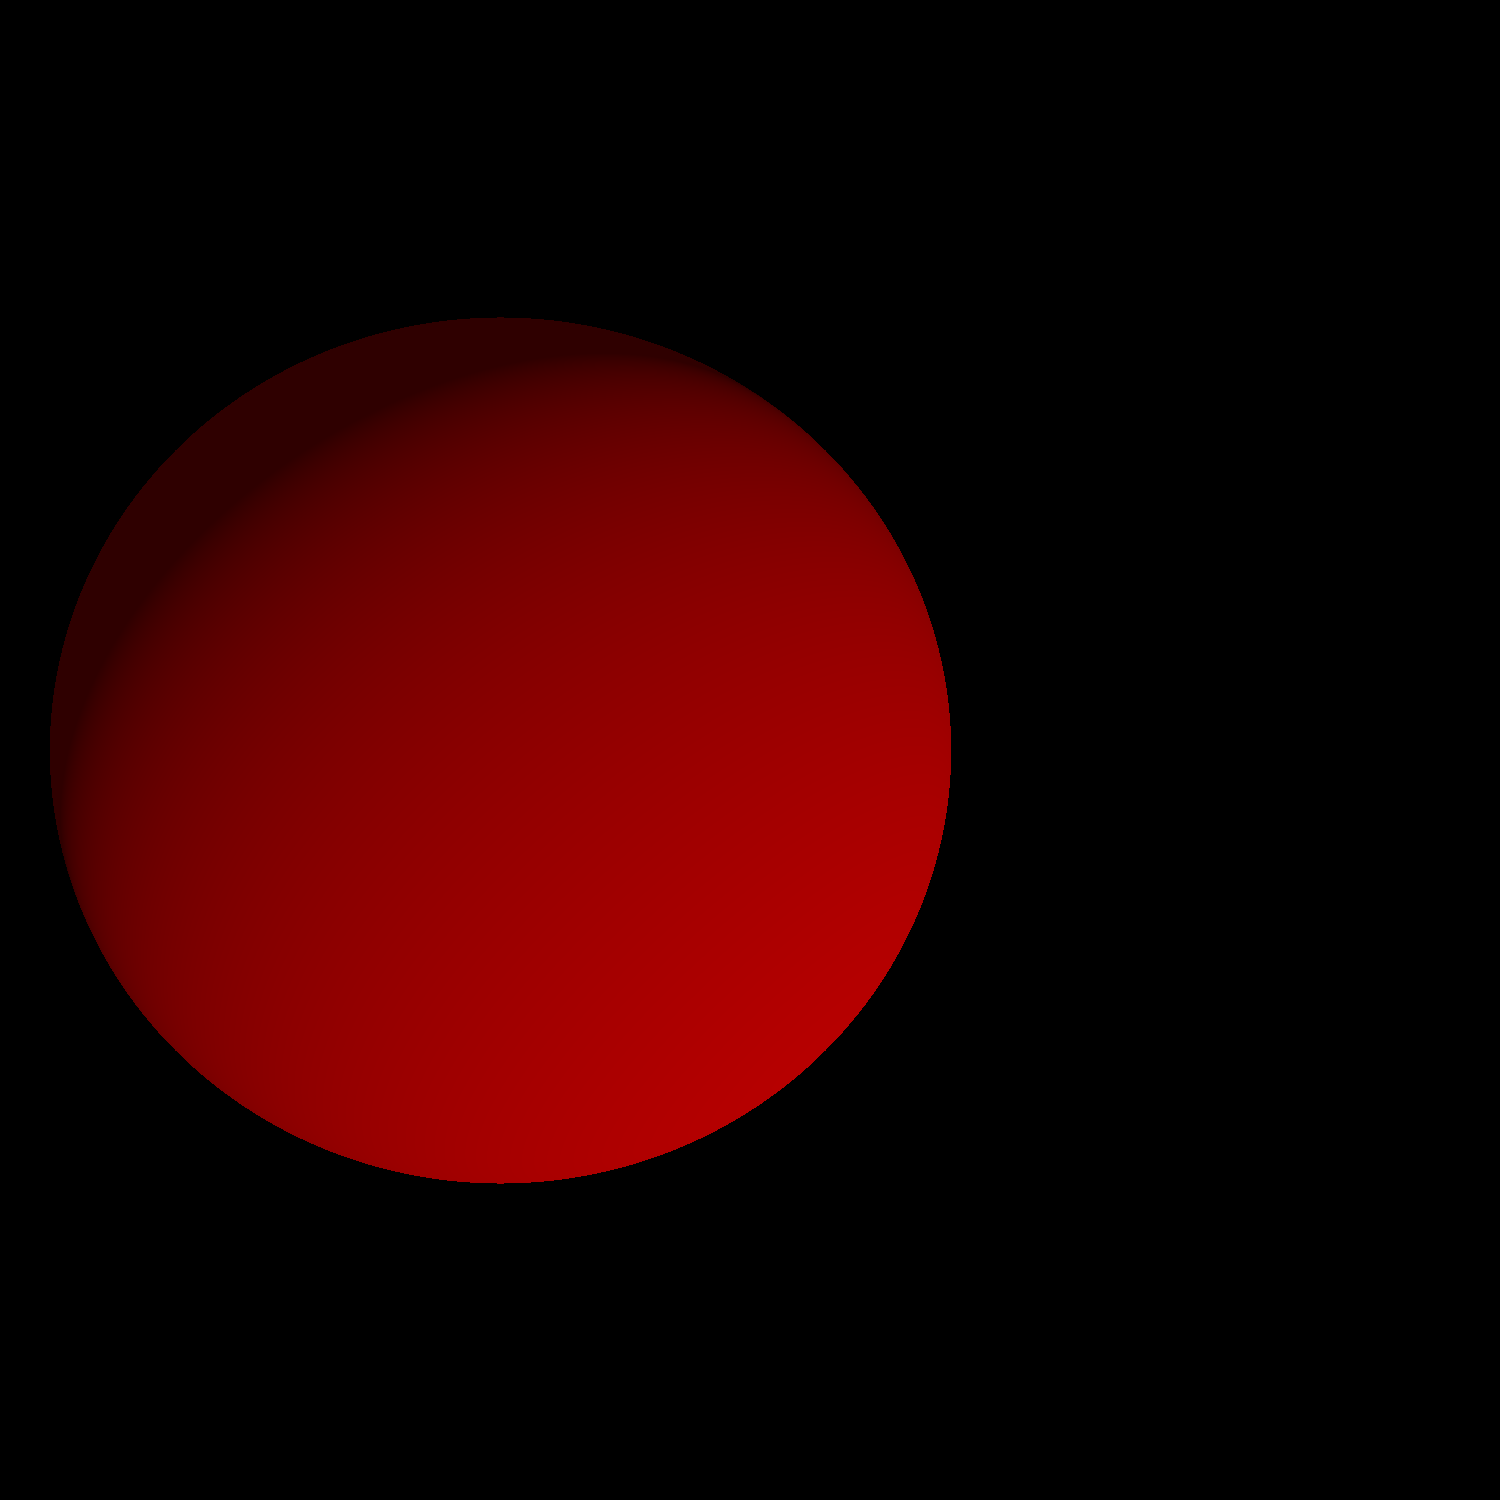
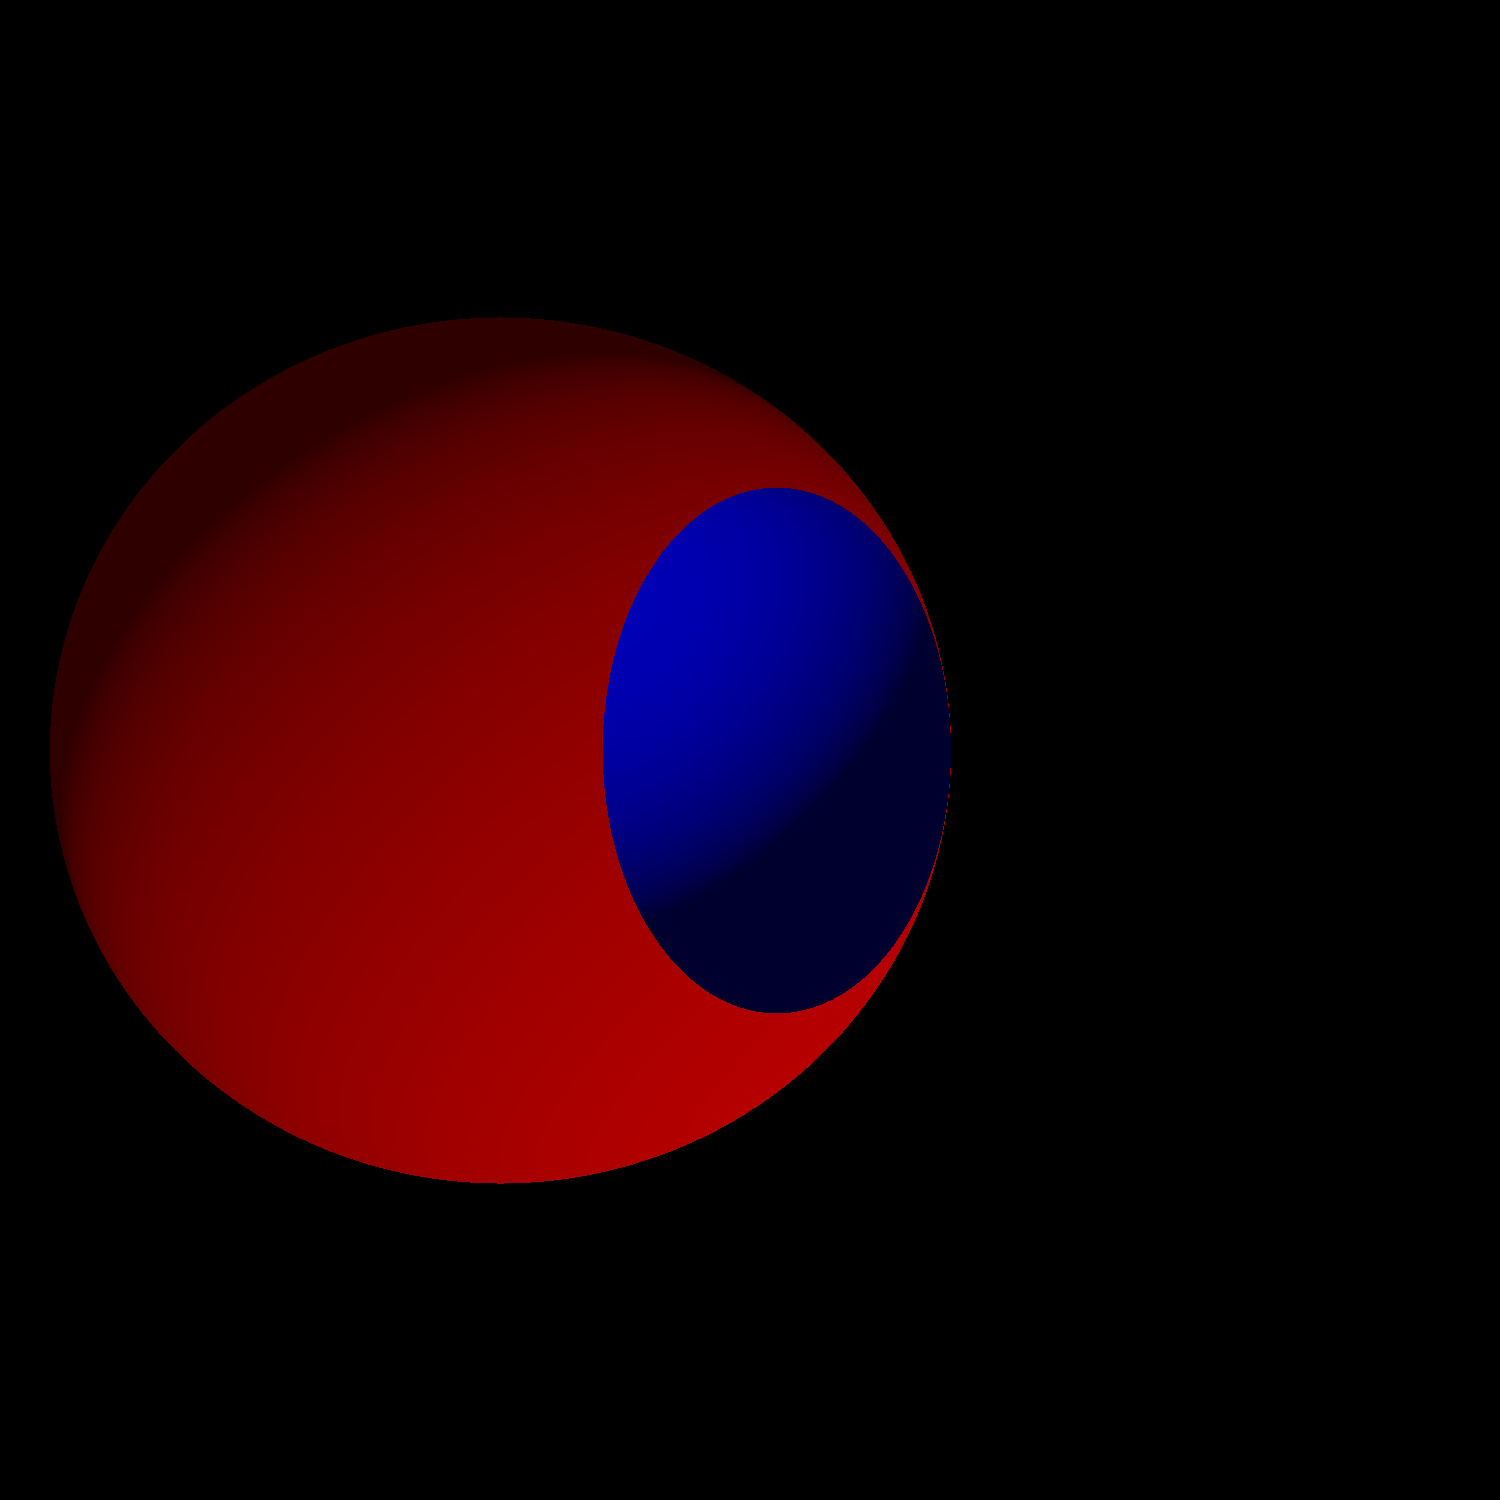
implementing a simple geometric difference algorithm for children

Changed region(s): [[0.3987, 0.3067, 0.644, 0.6747]]

diff --git a/src/cgg/geom/Complex.java b/src/cgg/geom/Complex.java
@@ -1,6 +1,7 @@
 package cgg.geom;
 
-import java.util.ArrayList;
+import java.util.LinkedList;
+import java.util.Queue;
 import static cgg.Math.*;
 import cgg.a02.Ray;
 import cgg.a02.Hit;
@@ -19,38 +20,89 @@ public class Complex implements Geometry
 		this.jop = jop;
 	}
 
-	public ArrayList<HitTuple> intersect(Ray ray)
+	public Queue<HitTuple> intersect(Ray ray)
 	{
+		Queue<HitTuple> __Hits0 = g0.intersect(ray);
+		Queue<HitTuple> __Hits1 = g1.intersect(ray);
 		switch(jop)
 		{
-			case UNION: return _union(ray);
-			case INTERSECT: return _intersect(ray);
-			case DIFFERENCE: return _difference(ray);
+			case UNION: return _union(__Hits0,__Hits1);
+			case INTERSECT: return _intersect(__Hits0,__Hits1);
+			case DIFFERENCE: return _difference(__Hits0,__Hits1);
 		}
 		return null;
 	}
 
-	private ArrayList<HitTuple> _union(Ray ray)
+	private Queue<HitTuple> _union(Queue<HitTuple> h0,Queue<HitTuple> h1)
 	{
-		ArrayList<HitTuple> __Hits0 = g0.intersect(ray);
-		// TODO
-		/*
-		Hit __Hit1 = g1.intersect(ray).back();
-		*/
-		//return { new HitTuple(secondHitRecent(__Hit0,__Hit1) ? __Hit1 : __Hit0,null) };
-		return __Hits0;
-		// TODO: back intersection
+		Queue<HitTuple> __Final = new LinkedList<>();
+		return h0;
 	}
 
-	private ArrayList<HitTuple> _intersect(Ray ray)
+	private Queue<HitTuple> _intersect(Queue<HitTuple> h0,Queue<HitTuple> h1)
 	{
+		Queue<HitTuple> __Final = new LinkedList<>();
+		return h0;
 		// TODO
-		return g0.intersect(ray);
 	}
 
-	private ArrayList<HitTuple> _difference(Ray ray)
+	private Queue<HitTuple> _difference(Queue<HitTuple> h0,Queue<HitTuple> h1)
 	{
-		// TODO
-		return g0.intersect(ray);
+		Queue<HitTuple> __Final = new LinkedList<>();
+		HitTuple __Hit = h0.poll();
+		HitTuple __Inter = h1.poll();
+
+		// iterate target geometry only (h0) and subtract
+		while (__Hit!=null)
+		{
+			// no subtractions
+			if (__Inter==null)
+			{
+				__Final.add(__Hit);
+				__Hit = h0.poll();
+				continue;
+			}
+
+			// check for intersection
+			if (secondHitRecent(__Inter.front(),__Hit.back()))
+			{
+				__Final.add(__Hit);
+				__Hit = h0.poll();
+				continue;
+			}
+			if (secondHitRecent(__Hit.front(),__Inter.back()))
+			{
+				__Inter = h1.poll();
+				continue;
+			}
+
+			// assemble difference
+			// intersection front inside geometry
+			if (secondHitRecent(__Inter.front(),__Hit.front()))
+			{
+				__Final.add(new HitTuple(__Hit.front(),__Inter.front()));
+				if (!secondHitRecent(__Inter.back(),__Hit.back()))
+				{
+					__Hit = h0.poll();
+					continue;
+				}
+				__Hit = new HitTuple(__Inter.back(),__Hit.back());
+				__Inter = h1.poll();
+			}
+
+			// intersection front pre geometry
+			else
+			{
+				if (secondHitRecent(__Inter.back(),__Hit.back()))
+				{
+					__Hit = h0.poll();
+					continue;
+				}
+				__Hit = new HitTuple(__Inter.back(),__Hit.back());
+				__Final.add(__Hit);
+				__Inter = h1.poll();
+			}
+		}
+		return __Final;
 	}
 }

diff --git a/src/cgg/geom/Sphere.java b/src/cgg/geom/Sphere.java
@@ -1,7 +1,8 @@
 package cgg.geom;
 
 import static java.lang.Math.*;
-import java.util.ArrayList;
+import java.util.LinkedList;
+import java.util.Queue;
 import static tools.Functions.*;
 import static cgg.Math.*;
 import tools.*;
@@ -23,7 +24,7 @@ public class Sphere implements Geometry
 		this.colour = colour;
 	}
 
-	public ArrayList<HitTuple> intersect(Ray r)
+	public Queue<HitTuple> intersect(Ray r)
 	{
 		// component precalculation
 		Vec3 __Center = subtract(r.origin(),center);
@@ -33,22 +34,22 @@ public class Sphere implements Geometry
 
 		// discriminant & early exit
 		double sq_comp = pow(b,2)-4*a*c;
-		if (sq_comp<0) return new ArrayList<HitTuple>();
+		if (sq_comp<0) return new LinkedList<HitTuple>();
 
 		// calculate param
 		double t0 = (-b+sqrt(sq_comp))/(2*a), t1 = (-b-sqrt(sq_comp))/(2*a);
 		double ts0 = min(t0,t1), ts1 = max(t0,t1);
 
 		// assemble hits & combine
-		Hit __Front = assembleHit(r,ts0,1);
-		Hit __Back = assembleHit(r,ts1,-1);
+		Hit __Front = _assembleHit(r,ts0,1);
+		Hit __Back = _assembleHit(r,ts1,-1);
 
 		// combine hits as primitive geometry output
 		return primitive_hit(new HitTuple(__Front,__Back));
 	}
 	// TODO: test this with camera being inside the sphere
 
-	private Hit assembleHit(Ray r,double t,int nmod)
+	private Hit _assembleHit(Ray r,double t,int nmod)
 	{
 		if (r.paramInRange(t))
 		{

diff --git a/src/cgg/RayTracer.java b/src/cgg/RayTracer.java
@@ -1,7 +1,7 @@
 package cgg;
 
 import static java.lang.Math.*;
-import java.util.ArrayList;
+import java.util.Queue;
 import static tools.Functions.*;
 import tools.*;
 import cgg.geom.*;
@@ -23,11 +23,11 @@ public class RayTracer implements Sampler
 	public Color getColor(Vec2 coord)
 	{
 		Ray __Ray = scene.camera.generateRay(coord);
-		ArrayList<HitTuple> __Hits = scene.complex.intersect(__Ray);
-		return (__Hits.size()>0) ? shade(__Hits.get(0).front()) : background;
+		Queue<HitTuple> __Hits = scene.complex.intersect(__Ray);
+		return (__Hits.size()>0) ? _shade(__Hits.peek().front()) : background;
 	}
 
-	public Color shade(Hit hit)
+	public Color _shade(Hit hit)
 	{
 		Vec3 lightDir = normalize(vec3(1,1,.7));
 		Color ambient = multiply(.05,hit.colour());

diff --git a/src/cgg/Math.java b/src/cgg/Math.java
@@ -1,14 +1,16 @@
 package cgg;
 
-import java.util.ArrayList;
+import java.util.LinkedList;
+import java.util.Queue;
 import cgg.a02.Hit;
 import cgg.geom.HitTuple;
 
+
 public class Math
 {
-	public static ArrayList<HitTuple> primitive_hit(HitTuple tuple)
+	public static Queue<HitTuple> primitive_hit(HitTuple tuple)
 	{
-		ArrayList<HitTuple> out = new ArrayList<HitTuple>();
+		Queue<HitTuple> out = new LinkedList<>();
 		out.add(tuple);
 		return out;
 	}

diff --git a/src/cgg/a03/Scene.java b/src/cgg/a03/Scene.java
@@ -15,7 +15,7 @@ public class Scene
 	{
 		camera = new Camera(vec3(0,0,0),90.,width,height);
 		Sphere sphere0 = new Sphere(vec3(-.5,0,-2),1.,color(.5,0,0));
-		Sphere sphere1 = new Sphere(vec3(.5,0,-2),1.,color(.5,0,0));
-		complex = new Complex(sphere0,sphere1,JoinOperation.UNION);
+		Sphere sphere1 = new Sphere(vec3(0,0,-1.5),.5,color(0,0,.5));
+		complex = new Complex(sphere0,sphere1,JoinOperation.DIFFERENCE);
 	}
 }

diff --git a/src/cgg/a02/Hit.java b/src/cgg/a02/Hit.java
@@ -30,6 +30,7 @@ public class Hit
 	public Color colour() { return colour; }
 	public int type() { return type; }
 	public void setType(int type) { this.type = type; }
+	public void overwritePosition(Vec3 position) { this.position = position; }
 	public void overwriteNormal(Vec3 normal) { this.normal = normal; }
 	public void overwriteColour(Color colour) { this.colour = colour; }
 }

diff --git a/src/cgg/geom/Geometry.java b/src/cgg/geom/Geometry.java
@@ -1,10 +1,11 @@
 package cgg.geom;
 
-import java.util.ArrayList;
+import java.util.Queue;
 import cgg.a02.Ray;
 import cgg.a02.Hit;
 
+
 public interface Geometry
 {
-	public ArrayList<HitTuple> intersect(Ray ray);
+	public Queue<HitTuple> intersect(Ray ray);
 }
